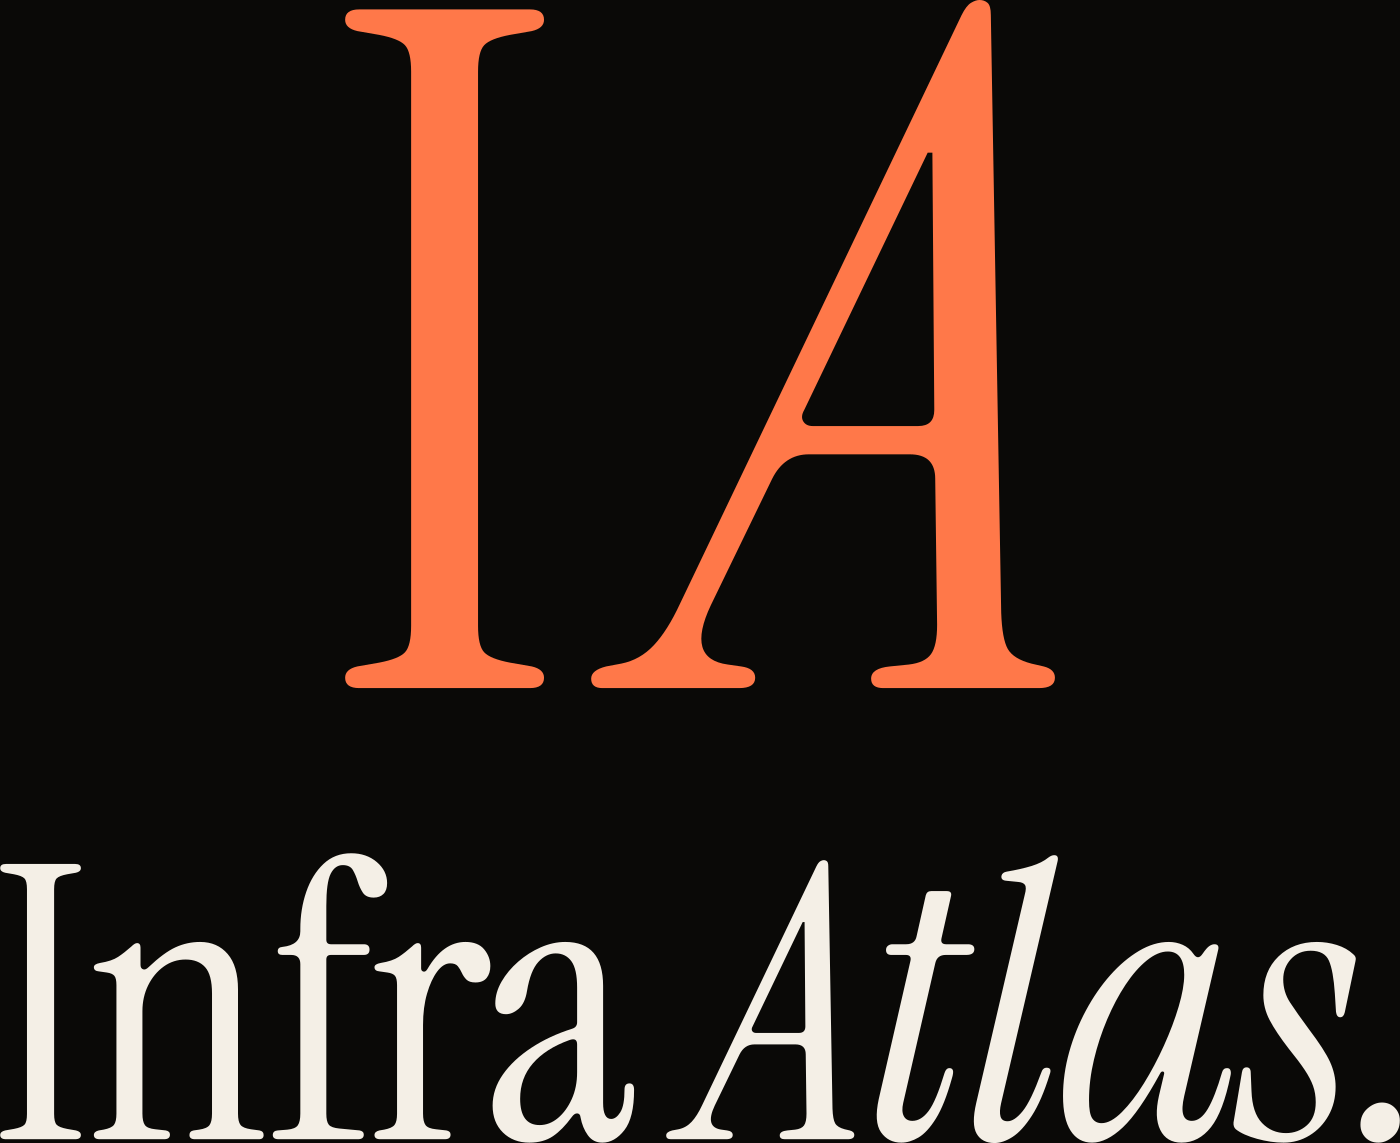
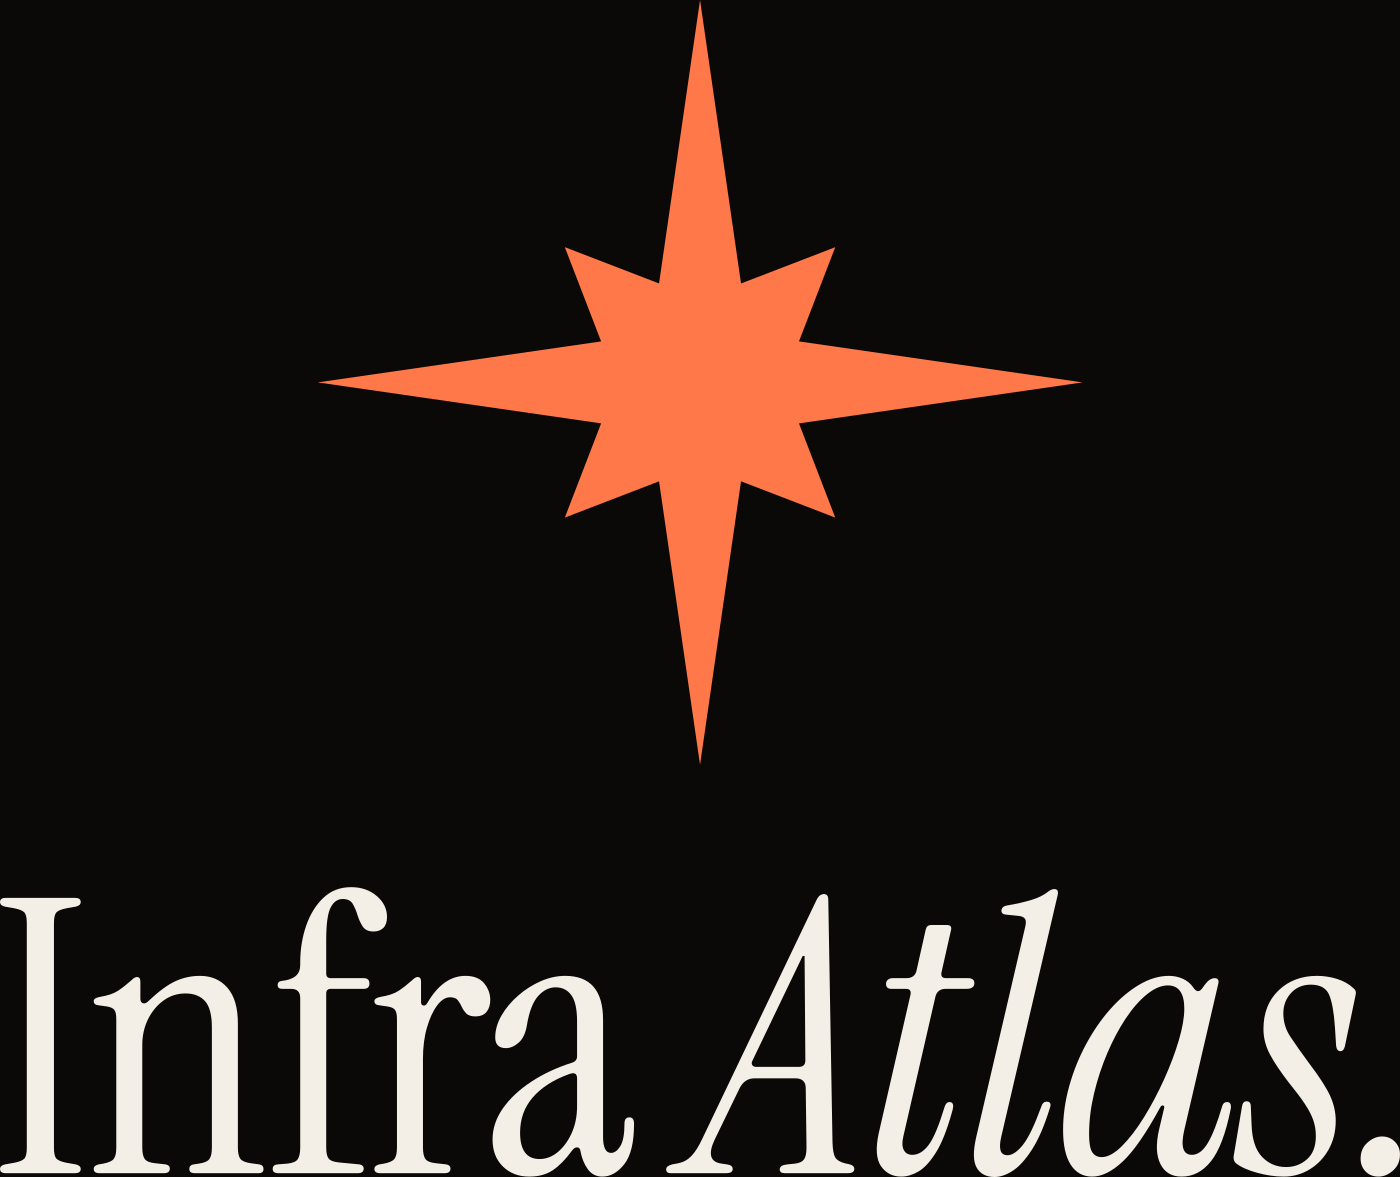
Use an 8-point compass star as the mark
Replaces the IA monogram. Rebuilt the mark, lockups, favicon and avatar
around the compass star; spec updated; brand/explore/ removed.

diff --git a/brand/preview.html b/brand/preview.html
@@ -40,11 +40,11 @@
   <div class="row">
     <div class="item">
       <div class="panel ink"><img src="lockup-horizontal-ink.svg" width="470" alt="horizontal lockup on ink"></div>
-      <div class="cap">on ink — orange monogram + paper wordmark</div>
+      <div class="cap">on ink — orange compass + paper wordmark</div>
     </div>
     <div class="item">
       <div class="panel paper"><img src="lockup-horizontal-paper.svg" width="470" alt="horizontal lockup on paper"></div>
-      <div class="cap">on paper — orange monogram + ink wordmark</div>
+      <div class="cap">on paper — orange compass + ink wordmark</div>
     </div>
   </div>
 </section>
@@ -53,11 +53,11 @@
   <h2>Stacked lockup</h2>
   <div class="row">
     <div class="item">
-      <div class="panel ink"><img src="lockup-stacked-ink.svg" width="250" alt="stacked lockup on ink"></div>
+      <div class="panel ink"><img src="lockup-stacked-ink.svg" width="240" alt="stacked lockup on ink"></div>
       <div class="cap">on ink</div>
     </div>
     <div class="item">
-      <div class="panel paper"><img src="lockup-stacked-paper.svg" width="250" alt="stacked lockup on paper"></div>
+      <div class="panel paper"><img src="lockup-stacked-paper.svg" width="240" alt="stacked lockup on paper"></div>
       <div class="cap">on paper</div>
     </div>
   </div>
@@ -67,8 +67,8 @@
   <h2>The mark &amp; the wordmark</h2>
   <div class="row">
     <div class="item">
-      <div class="panel ink"><img src="mark.svg" width="150" alt="IA monogram"></div>
-      <div class="cap">the mark — "IA" monogram, roman I + italic A (Instrument Serif)</div>
+      <div class="panel ink"><img src="mark.svg" width="140" alt="compass star mark"></div>
+      <div class="cap">the mark — an 8-point compass star</div>
     </div>
     <div class="item">
       <div class="panel paper"><img src="wordmark.svg" width="430" alt="wordmark"></div>
@@ -78,7 +78,7 @@
 </section>
 
 <section>
-  <h2>Favicon — the monogram at actual pixel sizes</h2>
+  <h2>Favicon — the mark at actual pixel sizes</h2>
   <div class="row">
     <div class="item">
       <div class="panel ink">
@@ -87,7 +87,7 @@
         <div class="fav"><img src="mark.svg" width="32" alt=""><span>32 px</span></div>
         <div class="fav"><img src="mark.svg" width="48" alt=""><span>48 px</span></div>
       </div>
-      <div class="cap">the monogram is the favicon — no separate simplified variant</div>
+      <div class="cap">a solid silhouette — legible down to 16px, no separate variant needed</div>
     </div>
   </div>
 </section>
@@ -110,12 +110,12 @@
       <div class="cap">avatar.png · 1024² · the file to upload to Open Collective</div>
     </div>
     <div class="item">
-      <p class="note">The mark is the "IA" monogram — roman I + italic A in
-      Instrument Serif, mirroring the wordmark's own roman/italic split. The
-      horizontal lockup is the primary logo; the stacked lockup is for
-      square-ish space; the monogram alone is for favicons, nav and avatars.
-      All SVGs are vector with the letters outlined to paths — no font
-      dependency. Full rules: the spec doc.</p>
+      <p class="note">The mark is an 8-point compass star — the cartographer's
+      instrument. The horizontal lockup is the primary logo; the stacked lockup
+      is for square-ish space; the star alone is for favicons, nav and avatars.
+      All SVGs are vector — the star is pure geometry, the wordmark is outlined
+      to paths — so nothing depends on a font being installed. Full rules: the
+      spec doc.</p>
     </div>
   </div>
 </section>

diff --git a/docs/plans/2026-05-17-logo-system-design.md b/docs/plans/2026-05-17-logo-system-design.md
@@ -2,36 +2,36 @@
 
 _Design — 2026-05-17. Status: built._
 
-A full logo system: an **"IA" monogram** mark, the Instrument Serif wordmark,
+A full logo system: a **compass-star** mark, the Instrument Serif wordmark,
 defined lockups, colour variants, sizing rules and a file set — so the identity
 holds from a 16px favicon to a page header, and contributors don't drift it.
 
 ## Decisions
 
-Settled in the 2026-05-17 brainstorm, with one mark revision:
-
 | # | Decision | Choice |
 |---|----------|--------|
 | 1 | Scope | A full logo **system**. |
-| 2 | Mark | An **"IA" monogram** — roman "I" + italic "A", Instrument Serif. *(An earlier contour-rings mark was built and rejected — nested circles read as a generic bullseye.)* |
+| 2 | Mark | An **8-point compass star** — the cartographer's instrument. *(Two earlier marks were built and rejected: a contour-rings mark read as a generic bullseye; an "IA" monogram read as a confusing letter-junction.)* |
 | 3 | Wordmark typeface | **Instrument Serif** — a masthead / nameplate treatment. |
 | 4 | Wordmark expression | "Infra" roman + "Atlas." italic, period kept; **single-colour** — the orange accent lives in the mark only, never the word. |
 
-## 1 · The mark — the "IA" monogram
+## 1 · The mark — the compass star
 
-The mark is a two-letter monogram: a roman **"I"** and an italic **"A"**, set as
-a tight pair in Instrument Serif. It is the system's anchor and the **only**
-element that carries the orange accent (`#FF7849`).
+An **8-point compass star**: four long cardinal points and four short
+intercardinal points, sharp straight edges, solid fill. It is the cartographer's
+instrument — navigation, the compass rose engraved on an atlas — which ties it
+straight to the project's name and voice ("Atlas", "the cartographer"). It is
+the system's anchor and the **only** element that carries the orange accent
+(`#FF7849`).
 
-**Why this construction.** The roman-I / italic-A pairing is the *same move* as
-the wordmark — "Infra" roman, "Atlas." italic. The monogram therefore carries
-the brand's signature typographic device: it is the project's initials in the
-project's own typeface, which makes it ownable rather than generic.
+**Why this mark.** It is unmistakably a compass — simple, sharp, eye-catching —
+and it is *not* the iconography cloud/infra tools default to (clouds, hexagons,
+node-graphs), so it is distinctive in this space. As a solid silhouette it also
+reads cleanly at every size, down to a 16px favicon.
 
-- Built by outlining the "I" (Instrument Serif Regular) and the "A" (Instrument
-  Serif Italic) to vector paths, set ~0.05em apart.
-- Roughly square — ~753 × 730 in a 1000-unit em.
-- No font dependency — the letters ship as outlined paths.
+**Geometry.** 8 points; cardinal tip radius 100, intercardinal tip radius 50,
+inner (valley) radius 28; a 200 × 200 box, one point straight up. Pure vector —
+no font dependency.
 
 ## 2 · The wordmark
 
@@ -49,17 +49,18 @@ project's own typeface, which makes it ownable rather than generic.
 
 Four forms:
 
-1. **Horizontal** (primary) — monogram left, wordmark right, optically centred.
-2. **Stacked** — monogram above, wordmark centred below.
+1. **Horizontal** (primary) — compass star left, wordmark right, optically
+   centred.
+2. **Stacked** — compass star above, wordmark centred below.
 3. **Mark only** — favicon, nav glyph, app icon, Open Collective / GitHub avatar.
 4. **Wordmark only** — running text, or where the mark already appears nearby.
 
-**Built proportions** — monogram height = `M`:
+**Built proportions** — mark height = `M`:
 
-- **Horizontal**: wordmark cap-height `0.52·M`; monogram-to-wordmark gap
-  `0.42·M`; lockup aspect ≈ 4.1 : 1.
-- **Stacked**: wordmark cap-height `0.40·M`; vertical gap `0.24·M`; lockup
-  aspect ≈ 1.22 : 1 (w : h).
+- **Horizontal**: wordmark cap-height `0.46·M`; mark-to-wordmark gap `0.32·M`;
+  lockup aspect ≈ 3.66 : 1.
+- **Stacked**: wordmark cap-height `0.36·M`; vertical gap `0.16·M`; lockup
+  aspect ≈ 1.19 : 1 (w : h).
 
 ## 4 · Clear space
 
@@ -80,10 +81,9 @@ trusted. Same shapes, one colour, never a redraw.
 
 ## 6 · Sizing & the favicon
 
-The monogram **is** the favicon — no separate simplified variant. "IA" stays
-legible down to ~16px; at 16px the high-contrast serif strokes run fine but
-hold. `favicon.svg` (repo root) is the monogram; `favicon-16.png` /
-`favicon-32.png` are raster fallbacks.
+The compass star **is** the favicon — a solid silhouette, legible down to 16px,
+no separate simplified variant needed. `favicon.svg` (repo root) is the star;
+`favicon-16.png` / `favicon-32.png` are raster fallbacks.
 
 | Form | Minimum | Below the minimum |
 |------|---------|-------------------|
@@ -101,14 +101,13 @@ All under `brand/`:
   `apple-touch-icon.png` (180²), `favicon-16.png`, `favicon-32.png`,
   `lockup-horizontal-{ink,paper}.png`, `lockup-stacked-{ink,paper}.png`.
 - **`preview.html`** — a visual contact sheet of the whole system.
-- **`favicon.svg`** (repo root) — the monogram.
+- **`favicon.svg`** (repo root) — the compass star.
 - This spec.
 
 ## 8 · Usage — don'ts
 
 - Don't recolour the wordmark, or move the orange onto the word.
-- Don't restyle the monogram — don't re-pick fonts or change the roman/italic
-  split; it mirrors the wordmark deliberately.
+- Don't restyle the mark — don't change the point count or proportions.
 - Don't place the orange mark on a low-contrast background — use the mono
   variant instead.
 - Don't stretch, rotate, skew, or recompose a lockup.
